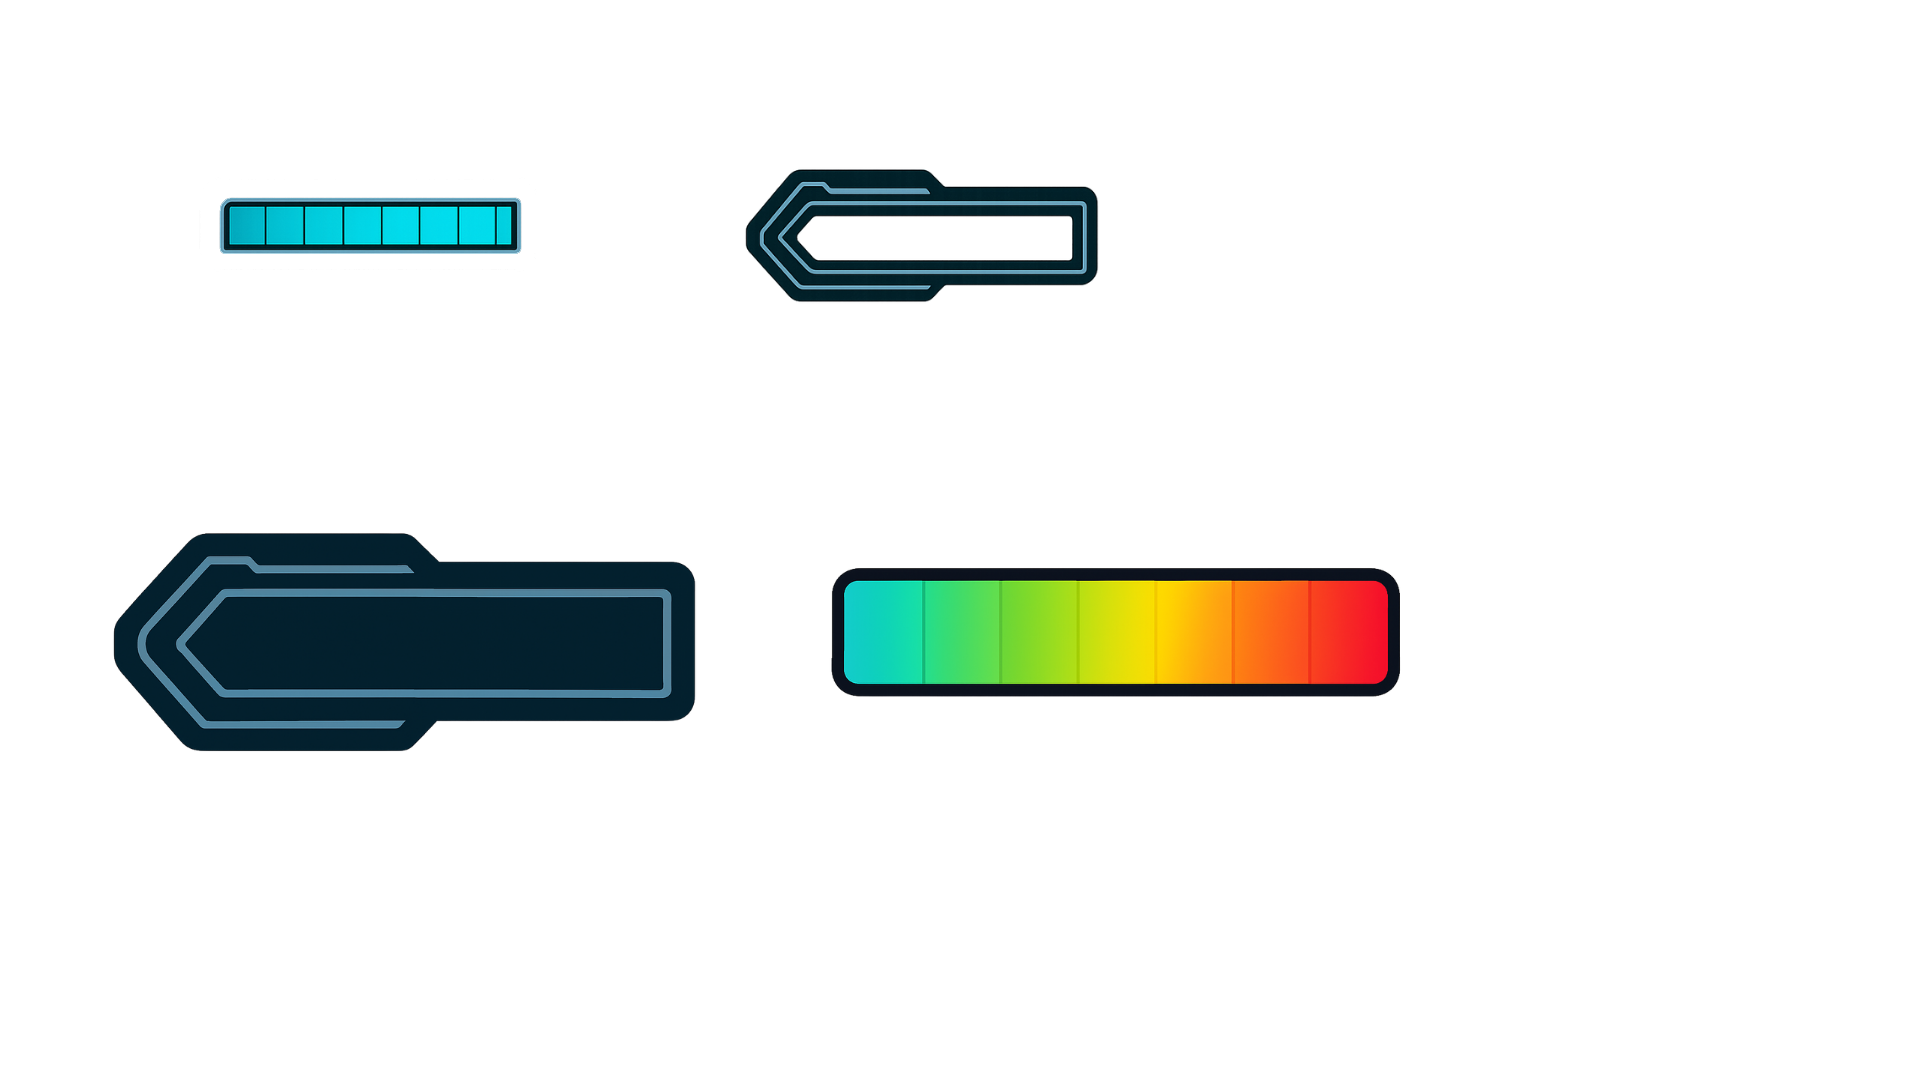
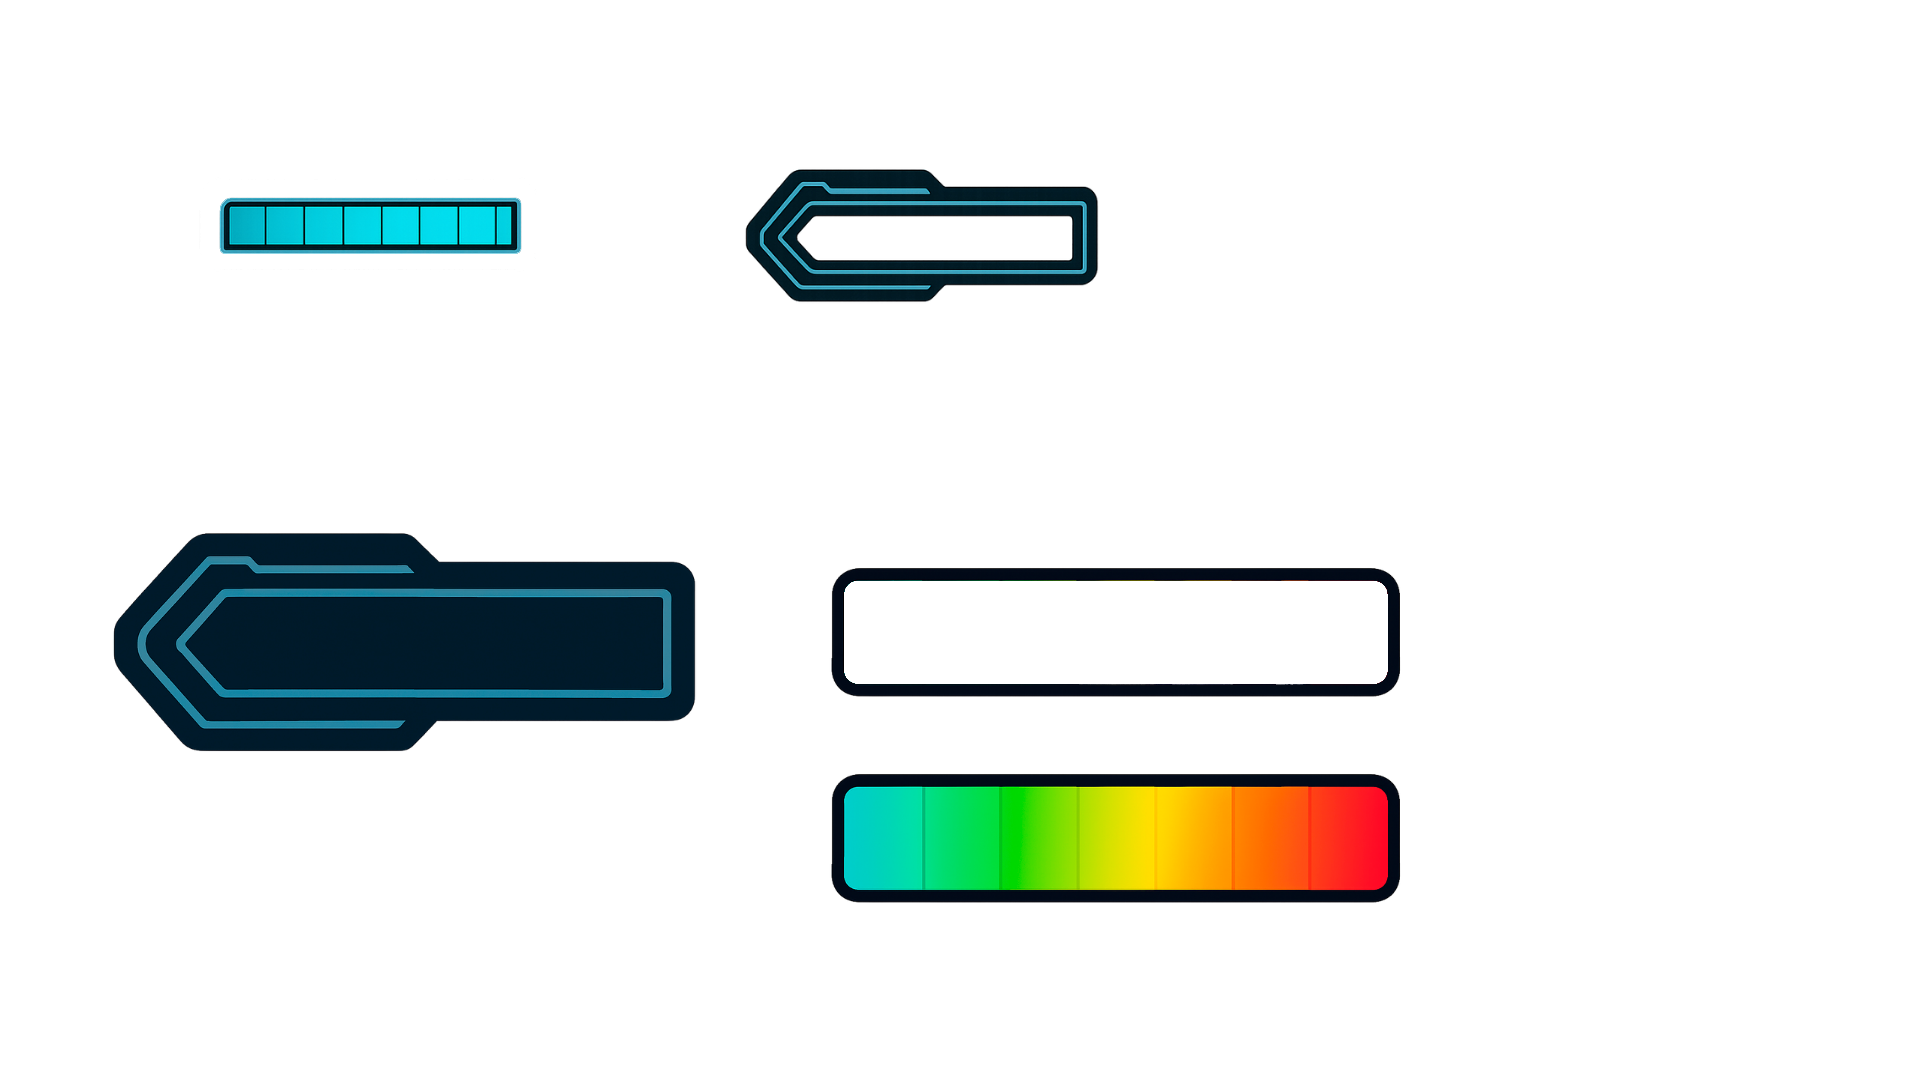
Mudança HUD
= Alterada barras de vida e energia do player, agora mudam de cor de acordo com o valor atual.

diff --git a/Assets/Xurulepe/Scripts/HUD/PlayerUI/FillBarGradientController.cs b/Assets/Xurulepe/Scripts/HUD/PlayerUI/FillBarGradientController.cs
@@ -1,0 +1,38 @@
+using DG.Tweening;
+using UnityEngine;
+using UnityEngine.UI;
+
+public class FillBarGradientController : MonoBehaviour
+{
+    [SerializeField] private Image _fillBar;
+    [SerializeField] private Color[] _colors;
+    [SerializeField] private float _changeColorTime;
+
+    private void Update()
+    {
+        UpdadeBarGradient();
+    }
+
+    private void UpdadeBarGradient()
+    {
+        //int colorCount = _colors.Length;
+
+        _fillBar.DOColor(_colors[GetColorIndex()], _changeColorTime);
+    }
+
+    private int GetColorIndex()
+    {
+        if (_fillBar.fillAmount > 0.7f)
+        {
+            return 0;
+        }
+        else if (_fillBar.fillAmount > 0.3f)
+        {
+            return 1;
+        }
+        else
+        {
+            return 2;
+        }
+    }
+}
